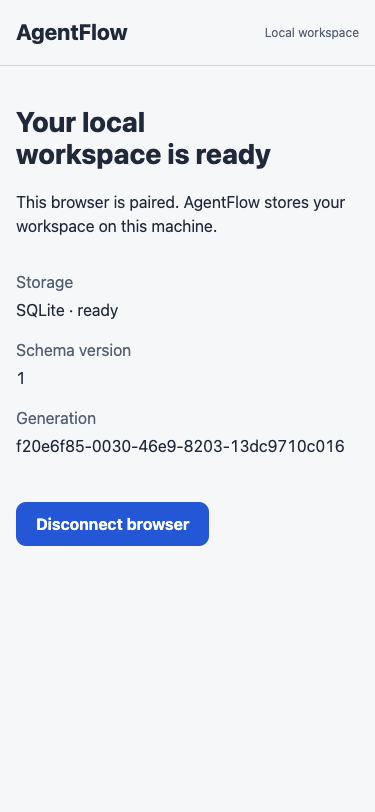
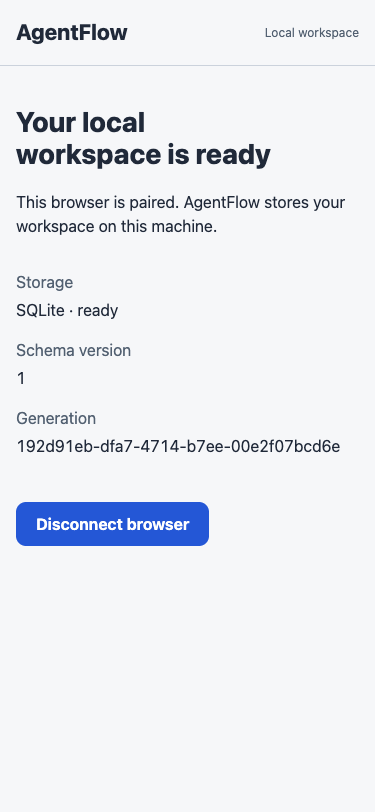
docs(runtime): record authenticated errors and disconnect review repairs

Changed region(s): [[0.0293, 0.5234, 0.5867, 0.5542], [0.616, 0.5234, 0.9093, 0.5542]]

diff --git a/docs/implementation/P01.md b/docs/implementation/P01.md
@@ -99,7 +99,7 @@ Default portable tests still select Playwright Chromium when no channel is set.
 
 ## Verification and artifacts
 
-The final clean clone at source commit `52e684f35fbd7779f5ef79f5bca6e205ffe753ba`
+The final clean clone at source commit `68c64dd2e335da3453c46778dca968d992e9256d`
 started without node_modules or .next. The committed lockfile installed there.
 Build used an isolated sentinel data path; that directory remained absent.
 The final receipt commit adds documentation and synthetic evidence only.
@@ -112,11 +112,11 @@ The final receipt commit adds documentation and synthetic evidence only.
 | `npm run typecheck` | Exit 0; strict own-source checks |
 | `npm run build` | Exit 0; ordinary shipping app, no probe route |
 | `npm run test:unit` | Exit 0; 6 tests / 3 files |
-| `npm run test:integration` | Exit 0; 41 tests / 8 files |
-| `AGENTFLOW_TEST_BROWSER=chrome npm run test:e2e` | Exit 0; 2 real-browser journeys |
-| `npm run test:runtime` | Exit 0; 27 tests / 5 files on the final runtime source |
+| `npm run test:integration` | Exit 0; 42 tests / 8 files |
+| `AGENTFLOW_TEST_BROWSER=chrome npm run test:e2e` | Exit 0; 3 real-browser journeys |
+| `npm run test:runtime` | Exit 0; 28 tests / 5 files on the final runtime source |
 | `node --import tsx tests/fixtures/acceptance.ts` | Exit 0; listener/HTTP/integrity/RSS evidence |
-| Impeccable `detect src/app --json` | Exit 0; `[]` |
+| Impeccable `detect src/app --json` | Historical exit 0; `[]` before review fixes; no requested rerun |
 | `git diff --check` | Exit 0 |
 
 The tests prove persisted hashed sessions, expiry checks, revocation/rotation,
@@ -155,14 +155,15 @@ Separate real HTTP same-site RSC/prefetch GET tests return 403.
 
 Synthetic captures are [desktop foundation](../evidence/P01/foundation.png),
 [375 px foundation](../evidence/P01/foundation-mobile.png), and
-[375 px pairing](../evidence/P01/pairing-mobile.png). The implementation writer and
+[375 px pairing](../evidence/P01/pairing-mobile.png), and
+[disconnect pending](../evidence/P01/disconnect-pending.png). The implementation writer and
 coordinator inspected them. No tokens, cookie secrets, OS usernames or absolute
 runtime paths are published. Raw redacted/local logs live under
 `work/poteto/P01/`, including initial failures and the final clean clone's logs.
 
-The final clean-clone readiness samples are 447, 425 and 425 ms (median 425 ms,
-range 425–447). Idle RSS after three seconds is 201632, 203328 and 201280 KiB
-(median 201632, range 201280–203328). These are initial host measurements with
+The final clean-clone readiness samples are 581, 549 and 534 ms (median 549 ms,
+range 534–581). Idle RSS after three seconds is 102176, 137408 and 115200 KiB
+(median 115200, range 102176–137408). These are initial host measurements with
 100 ms readiness polling, not P07 performance promises. Earlier measurements
 remain local historical artifacts and do not substitute for this candidate.
 
@@ -198,3 +199,34 @@ rejected; tests use canonical temporary paths. Real operator data, live provider
 credentials, human attestations, release publication and downstream package
 behavior are outside this receipt. The next gate is independent standards/spec
 review of the exact final candidate and coordinator verification before merge.
+
+## Independent review repairs
+
+The first Spec review required read-body rejection, asynchronous-backup ownership,
+and generation headers on authenticated errors. These are corrections of approved
+P01 contracts, not new scope. The last regression captured a missing generation
+header after authenticated malformed session deletion. Authentication now signals
+confirmed credentials before role authorization; the shared response boundary
+and native private envelope retain generation on validation, body-read and valid
+reporter human-role errors. Missing, invalid, ambiguous and expired credentials
+still reveal no generation. The focused production auth suite passes eight tests.
+
+The bounded Impeccable finish review identified one material fix in disconnect
+loading/retry feedback. The button now clears its previous error, shows
+“Disconnecting…” and disables/guards repeat activation until the request settles.
+The new browser regression first obtains a real 422 from an extra-field DELETE,
+then delays a real retry and verifies the cleared alert, disabled pending label,
+one outstanding request and eventual 204/session revocation. No success response
+is mocked. It failed before the fix and passes after it. Existing typography,
+palette and composition stay unchanged. All three required captures plus the
+pending state were recaptured after this single fix batch; independent final UI
+inspection remains open. No additional detector round was run, as the review
+requested.
+
+Updated clean proof cloned runtime source `68c64dd2e335da3453c46778dca968d992e9256d`
+without dependencies/build output and repeated installation, dependency validation,
+lint, types, production build, 6 unit tests, 42 integration tests, 3 browser
+journeys and listener/HTTP/integrity/RSS evidence. The focused runtime suite passes
+28 tests. Raw updated logs are `work/poteto/P01/errors-*.log`; earlier clean clones
+remain historical receipts and do not substitute for this changed source. Final
+standards/spec/UI verdicts and coordinator integration remain open.

diff --git a/docs/DELIVERY.md b/docs/DELIVERY.md
@@ -12,7 +12,7 @@ independent review of the candidate SHA, and verified integration all pass.
 
 | Package | Deliverable | State | Candidate / integrated SHA | Evidence |
 | --- | --- | --- | --- | --- |
-| P01 | Runtime/storage | Review pending | `52e684f35fbd7779f5ef79f5bca6e205ffe753ba` source evidence; final receipt HEAD awaits review | [Receipt](implementation/P01.md), [synthetic evidence](evidence/P01/acceptance.json) |
+| P01 | Runtime/storage | Review pending | `68c64dd2e335da3453c46778dca968d992e9256d` source evidence; final receipt HEAD awaits review | [Receipt](implementation/P01.md), [synthetic evidence](evidence/P01/acceptance.json) |
 | P02 | Task contracts | Not started | — | — |
 | P03 | Work board | Not started | — | — |
 | P04 | Agent ingestion | Not started | — | — |
@@ -56,15 +56,15 @@ report progress precisely; a partial demo or documentation PR is not v1 completi
 
 Branch `codex/v1-p01-runtime`; baseline `e4d7b84`. The approved Astra medium
[1 lines of base64/hex data omitted]
-Source proof is tied to `52e684f35fbd7779f5ef79f5bca6e205ffe753ba`; the final
+Source proof is tied to `68c64dd2e335da3453c46778dca968d992e9256d`; the final
 receipt commit changes only docs/evidence. Small commits preserve regression
 red/green loops; no reset, rebase, force push, PR or merge was performed by the
 writer. The coordinator owns independent review, PR creation and integration.
 
 Final clean-clone commands passed installation, dependency-tree validation,
-lint, types, production build, 6 unit tests, 41 integration tests, 2 Chrome
+lint, types, production build, 6 unit tests, 42 integration tests, 3 Chrome
 browser journeys and listener/HTTP/integrity/resource checks. The focused runtime
-suite passed 27 tests. Production audit has zero findings; two dev-tool advisory
+suite passed 28 tests. Production audit has zero findings; two dev-tool advisory
 chains remain explicitly qualified in the receipt. Browser default Chromium
 installation was cancelled after slow download; installed Chrome 154 was tested
 in temporary profiles. Native use is the bundled darwin-arm64 prebuild, not a
